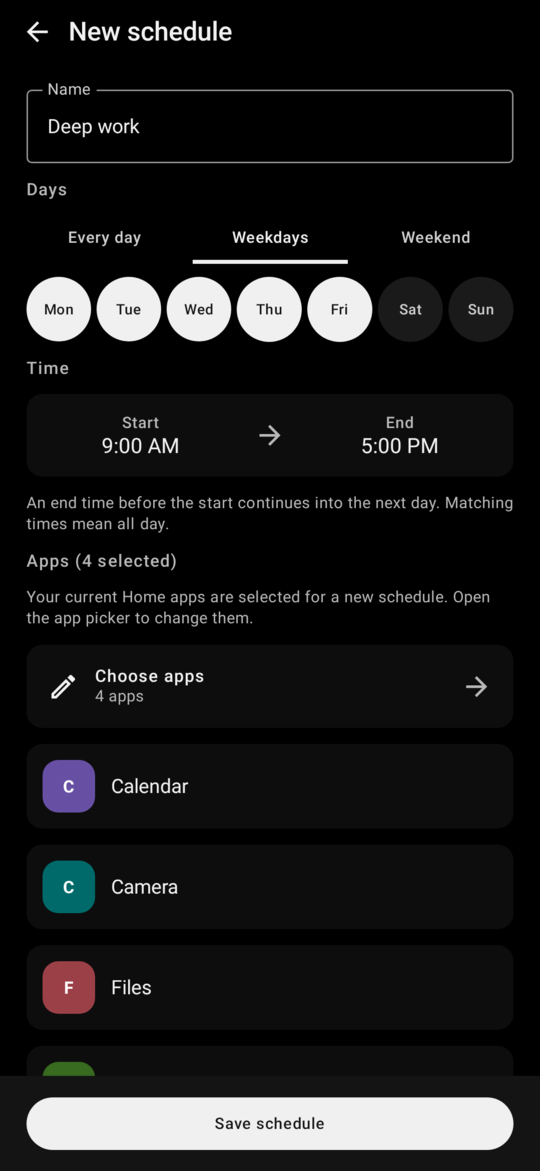
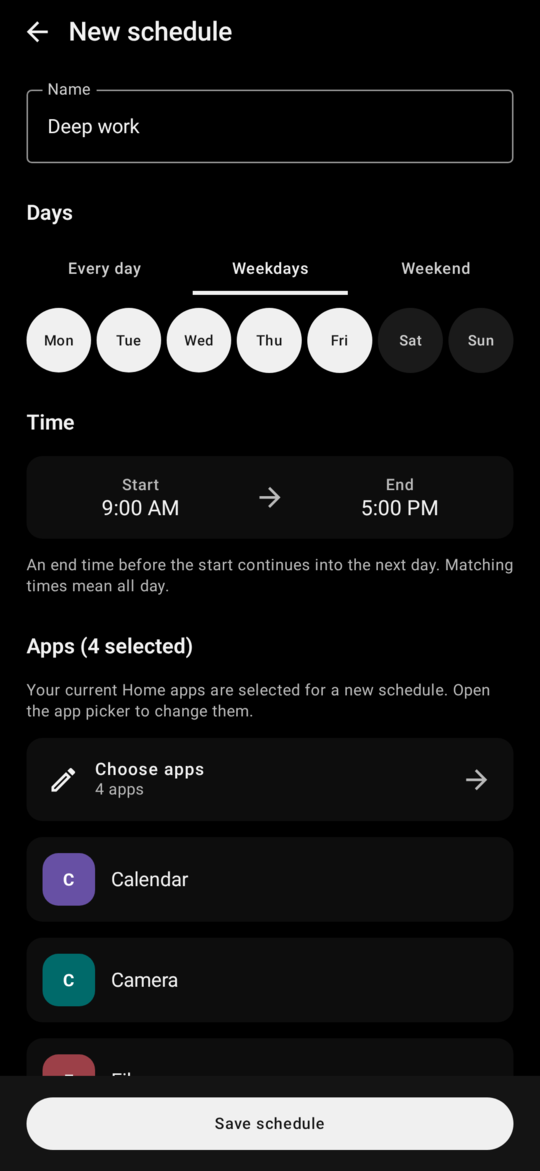
improvement: clarify settings section hierarchy

diff --git a/app/src/main/java/com/tomasrepcik/voidlauncher/ui/customization/CustomizationScreen.kt b/app/src/main/java/com/tomasrepcik/voidlauncher/ui/customization/CustomizationScreen.kt
@@ -38,6 +38,7 @@ import androidx.compose.ui.Alignment
 import androidx.compose.ui.Modifier
 import androidx.compose.ui.platform.testTag
 import androidx.compose.ui.res.stringResource
+import androidx.compose.ui.text.font.FontWeight
 import androidx.compose.ui.unit.dp
 import com.tomasrepcik.voidlauncher.R
 import com.tomasrepcik.voidlauncher.data.model.InstalledApp
@@ -78,11 +79,7 @@ fun CustomizationScreen(
                     verticalArrangement = Arrangement.spacedBy(12.dp),
                 ) {
                     item {
-                        Text(
-                            text = stringResource(R.string.bottom_shortcuts),
-                            style = MaterialTheme.typography.titleMedium,
-                            color = MaterialTheme.colorScheme.secondary,
-                        )
+                        SettingsSectionTitle(stringResource(R.string.bottom_shortcuts))
                     }
 
                     items(
@@ -96,11 +93,7 @@ fun CustomizationScreen(
                     }
 
                     item {
-                        Text(
-                            text = stringResource(R.string.app_schedules),
-                            style = MaterialTheme.typography.titleMedium,
-                            color = MaterialTheme.colorScheme.secondary,
-                        )
+                        SettingsSectionTitle(stringResource(R.string.app_schedules))
                     }
 
                     item {
@@ -142,12 +135,7 @@ fun CustomizationScreen(
                     }
 
                     item {
-                        Text(
-                            text = stringResource(R.string.help),
-                            style = MaterialTheme.typography.titleMedium,
-                            color = MaterialTheme.colorScheme.secondary,
-                            modifier = Modifier.padding(top = 8.dp),
-                        )
+                        SettingsSectionTitle(stringResource(R.string.help))
                     }
 
                     item {
@@ -231,11 +219,7 @@ fun ShortcutPickerScreen(
                     verticalArrangement = Arrangement.spacedBy(10.dp),
                 ) {
                     item {
-                        Text(
-                            text = stringResource(R.string.system_shortcuts),
-                            style = MaterialTheme.typography.titleMedium,
-                            color = MaterialTheme.colorScheme.secondary,
-                        )
+                        SettingsSectionTitle(stringResource(R.string.system_shortcuts))
                     }
 
                     item {
@@ -253,11 +237,7 @@ fun ShortcutPickerScreen(
                     }
 
                     item {
-                        Text(
-                            text = stringResource(R.string.apps),
-                            style = MaterialTheme.typography.titleMedium,
-                            color = MaterialTheme.colorScheme.secondary,
-                        )
+                        SettingsSectionTitle(stringResource(R.string.apps))
                     }
 
                     item {
@@ -288,6 +268,17 @@ fun ShortcutPickerScreen(
             }
         }
     }
+}
+
+@Composable
+internal fun SettingsSectionTitle(text: String) {
+    Text(
+        text = text,
+        modifier = Modifier.padding(top = 16.dp, bottom = 4.dp),
+        style = MaterialTheme.typography.titleLarge,
+        color = MaterialTheme.colorScheme.onSurface,
+        fontWeight = FontWeight.SemiBold,
+    )
 }
 
 @Composable

diff --git a/app/src/main/java/com/tomasrepcik/voidlauncher/ui/schedule/ScheduleScreens.kt b/app/src/main/java/com/tomasrepcik/voidlauncher/ui/schedule/ScheduleScreens.kt
@@ -40,6 +40,7 @@ import androidx.compose.ui.platform.LocalContext
 import androidx.compose.ui.platform.testTag
 import androidx.compose.ui.res.stringResource
 import androidx.compose.ui.semantics.Role
+import androidx.compose.ui.text.font.FontWeight
 import androidx.compose.ui.text.style.TextOverflow
 import androidx.compose.ui.unit.dp
 import com.tomasrepcik.voidlauncher.R
@@ -547,7 +548,9 @@ private fun ScheduleAppRow(
 private fun SectionTitle(text: String) {
     Text(
         text = text,
-        style = MaterialTheme.typography.titleMedium,
-        color = MaterialTheme.colorScheme.secondary,
+        modifier = Modifier.padding(top = 16.dp, bottom = 4.dp),
+        style = MaterialTheme.typography.titleLarge,
+        color = MaterialTheme.colorScheme.onSurface,
+        fontWeight = FontWeight.SemiBold,
     )
 }

diff --git a/app/src/main/java/com/tomasrepcik/voidlauncher/ui/customization/AboutSettings.kt b/app/src/main/java/com/tomasrepcik/voidlauncher/ui/customization/AboutSettings.kt
@@ -42,12 +42,7 @@ internal fun AboutSettings(
 ) {
     val appVersion = rememberAppVersion()
     Column(verticalArrangement = Arrangement.spacedBy(12.dp)) {
-        Text(
-            text = stringResource(R.string.about),
-            style = MaterialTheme.typography.titleMedium,
-            color = MaterialTheme.colorScheme.secondary,
-            modifier = Modifier.padding(top = 8.dp),
-        )
+        SettingsSectionTitle(stringResource(R.string.about))
         ElevatedCard(
             modifier = Modifier
                 .fillMaxWidth()
